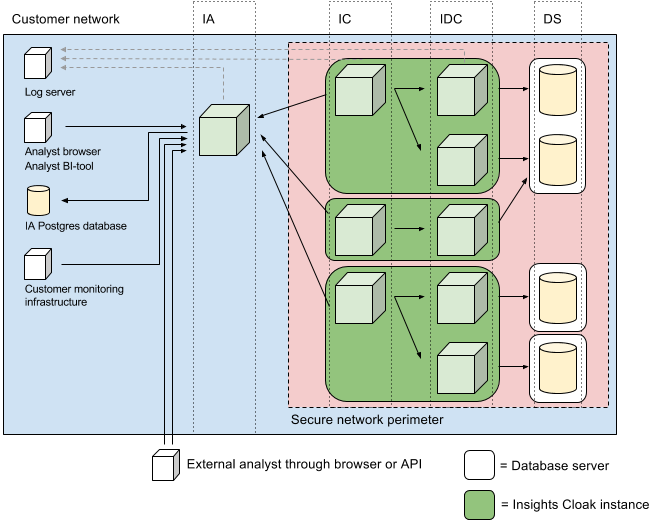
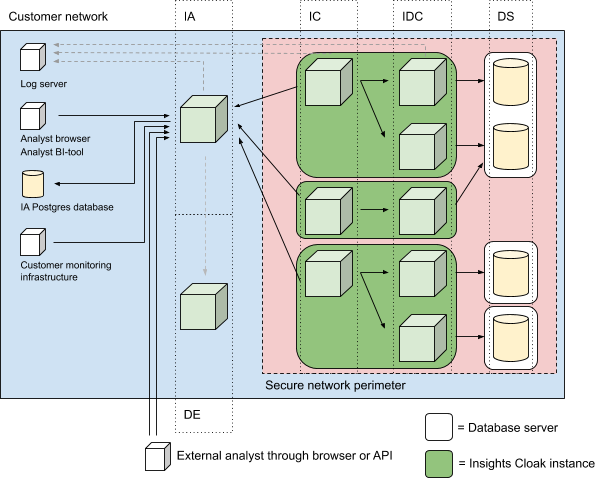
Adds Diffix Explorer docs (#4451)

Changed region(s): [[0.0, 0.0, 0.9918, 1.0], [0.7439, 0.8787, 0.9299, 0.9079]]

diff --git a/air/lib/air_web/templates/changelog/changelog.html.md b/air/lib/air_web/templates/changelog/changelog.html.md
@@ -1,6 +1,6 @@
 ## Version 20.2.0-dev
 
-### __Breaking changes__
+### **Breaking changes**
 
 - Default value for `max_rare_negative_conditions` is now 0.
 - The `IS [NOT] NULL` operator is restricted to clear expressions.
@@ -10,8 +10,11 @@
 
 ### New features
 
+- We've built an integration to take advantage of [Diffix Explorer](https://github.com/diffix/explorer). If you [enable it](/docs/ops/installation.html#diffix-explorer), you will be able to get a nice overview of the anonymized content of columns in your data source.
+
 ### Enhancements
 
+- Redesigned user interface. The interface is easier to navigate, use and read and works better on mobile devices.
 - Added overflow protection for date arithmetic. Oracle UDFs have to be reloaded.
 - Improved performance for join-timing protection.
 
@@ -54,7 +57,7 @@
 
 ## Version 20.1.0
 
-### __Breaking changes__
+### **Breaking changes**
 
 - Support for `median` was removed.
 - Support for `distinct` modifier was removed for all aggregate functions except `count` and `count_noise`.
@@ -112,7 +115,7 @@
 
 ## Version 19.3.0
 
-### __Breaking changes__
+### **Breaking changes**
 
 - `GROUP BY` clause is no longer allowed to contain constants.
 - Minimum supported MongoDB version is now `3.6`.
@@ -148,7 +151,7 @@
 
 [Upgrade guide](docs/ops/upgrading.html)
 
-### __Breaking changes__
+### **Breaking changes**
 
 - The air configuration must contain the mandatory `name` property in the Insights Air configuration.
   See [Insights Air configuration](docs/ops/configuration.html#insights-air-configuration) for details.
@@ -201,7 +204,6 @@
 - The format in which cloak memory is reported has changed
 - By default, the cloak accepts at most 10 simultaneous queries. This setting can be changed with the `max_parallel_queries` cloak configuration parameter. See the section on configuring [Insights Cloak](/docs/ops/configuration.html#insights-cloak-configuration) for details.
 
-
 ## Version 18.4.0
 
 ### Features
@@ -236,7 +238,7 @@
 
 ## Version 18.3.0
 
-### __Breaking change__
+### **Breaking change**
 
 - ODBC drivers for SAP HANA must be provided by the client and mounted.
   See the [Installation guide](docs/ops/installation.html) for more info.
@@ -265,7 +267,7 @@
 
 ### Changes
 
-  - Improve the consistency between the different ways of computing noisy users counts; some results may change.
+- Improve the consistency between the different ways of computing noisy users counts; some results may change.
 
 ## Version 18.2.3
 
@@ -448,6 +450,7 @@
 - Remove charting of errors and automatic detection of axes. Instead it's possible to select which columns to plot.
 
 ### Bugfixes
+
 - Fixes usage of dotted names in sub-queries.
 - Fixes filtering of rows generated by `extract_matches`.
 - Fix data leakage in `min`/`max` aggregators.

diff --git a/air/docs/content/ops/installation.md b/air/docs/content/ops/installation.md
@@ -1,13 +1,15 @@
 # Overview
 
-The Aircloak system consists of two components:
+The Aircloak system consists of several components:
 
 - Insights Air
 - Insights Cloak
+- Diffix Explorer *(optional)*
 
 For an explanation of these components, see [Components provided by Aircloak](/components.md#components-provided-by-aircloak).
 
-These components should run on separate machines. In addition, the access to the Insights Cloak component should be highly restricted, since this component has complete read access to the sensitive data. The Insights Air component does not require such privileges, so you can optionally run it in another network, as long as Insights Cloak can connect to the Insights Air.
+These components should run on separate machines. In addition, the access to the Insights Cloak component should be highly restricted, since this component has complete read access to the sensitive data. The Insights Air component does not require such privileges, so you can optionally run it in another network, as long as Insights Cloak can connect to the Insights Air. 
+Diffix Explorer needs even fewer privileges as it only needs to connect to Insights Air.
 
 Before installing components, make sure that the following prerequisites are met:
 
@@ -111,3 +113,7 @@ docker run ... \
 ```
 
 Mounting of the persisted folder is optional. If you don't mount this folder, the cloak will simply recompute the data during boot. Note that in this case the boot time of the cloak component might increase.
+
+## Diffix Explorer
+
+Please follow the [project documentation](https://github.com/diffix/explorer#getting-started).

diff --git a/air/docs/content/components.md b/air/docs/content/components.md
@@ -49,6 +49,13 @@ types not natively supported, and performing table joins where no such support e
 For more information about the supported datastores and what query features are emulated, please have a look at the
 [datastore](datastores.md) page.
 
+### Diffix Explorer
+
+[Diffix Explorer](https://github.com/diffix/explorer) is an *optional* open source component backed by the [Max Planck Institute for Software Systems](https://mpi-sws.org), 
+which integrates with Insights Air to provide actionable information to analysts without the need to manually write queries.
+Insights Air provides a built-in UI integration to manage and display these results, but Diffix Explorer can also be used
+through it's API to derive useful information for other interfaces.
+
 ## Components provided by the customer
 
 ### PostgreSQL database
@@ -84,7 +91,7 @@ The following diagram shows the possible ways in which the components interact. 
 [deployment guide](deployment.md).
 
 ![Shows an overview of different ways in which the Aircloak Insights components interact. IA: Insights Air, IC: Insights
-Cloak, IDC: Insights Datasource connector, DS: Datasource](components/interactions.png)
+Cloak, IDC: Insights Datasource connector, DS: Datasource, DE: Diffix Explorer](components/interactions.png)
 
 In the diagram above the arrows point to the component being connected to.
 For example it shows that Insights Cloak connects to Insights Air,

diff --git a/air/docs/content/ops/configuration.md b/air/docs/content/ops/configuration.md
@@ -11,6 +11,7 @@ The Insights Air configuration needs to provide the following information:
 - Insights Air PostgreSQL interface parameters (optional) - see [Insights Air Postgresql interface
   configuration](#insights-air-postgresql-interface-configuration)
 - LDAP configuration (optional) - see [LDAP configuration](#ldap-configuration)
+- Configuration for connecting to Diffix Explorer (optional) - see [Diffix Explorer configuration](#diffix-explorer-configuration)
 
 The general shape of `config.json` is therefore:
 
@@ -27,6 +28,9 @@ The general shape of `config.json` is therefore:
     ...
   },
   "ldap": {
+    ...
+  },
+  "explorer": {
     ...
   }
 }
@@ -325,6 +329,19 @@ In that case you'd use a configuration like this:
   }
 }
 ```
+
+### Diffix Explorer Configuration
+
+The Diffix Explorer integration is optional. You can activate it by including the `explorer` parameter in your configuration. It specifies the Diffix Explorer instance Insights Air will connect to. The configuration looks like this:
+
+```
+"explorer": {
+  "url": string
+}
+```
+
+The single property `url` is the URL where Insights Air can find a running version of Diffix Explorer. Note that for the integration to 
+work properly, you will also need to fill out the optional [`site.endpoint_public_url`](#web-site-configuration) setting.
 
 ## Insights Cloak configuration
 

diff --git a/air/docs/content/deployment.md b/air/docs/content/deployment.md
@@ -2,7 +2,7 @@
 
 ## Overview
 
-All Aircloak-provided components (Insights Air, Insights Cloak, and Insights Datasource Connector) are deployed as
+All Aircloak-provided components (Insights Air, Insights Cloak, Insights Datasource Connector, and Diffix Explorer) are deployed as
 docker containers. As such they can be deployed in physical as well as virtualized environments. They also lend
 themselves to be deployed in managed docker environments like Kubernetes and Mesos.
 

diff --git a/air/docs/content/SUMMARY.md b/air/docs/content/SUMMARY.md
@@ -83,6 +83,7 @@
 - [Installing the system](ops/installation.md)
   - [Insights Air](ops/installation.md#insights-air)
   - [Insights Cloak](ops/installation.md#insights-cloak)
+  - [Diffix Explorer](ops/installation.md#diffix-explorer)
 - [Configuring the system](ops/configuration.md)
   - [Overview](ops/configuration.md#overview)
   - [Insights Air](ops/configuration.md#insights-air-configuration)
